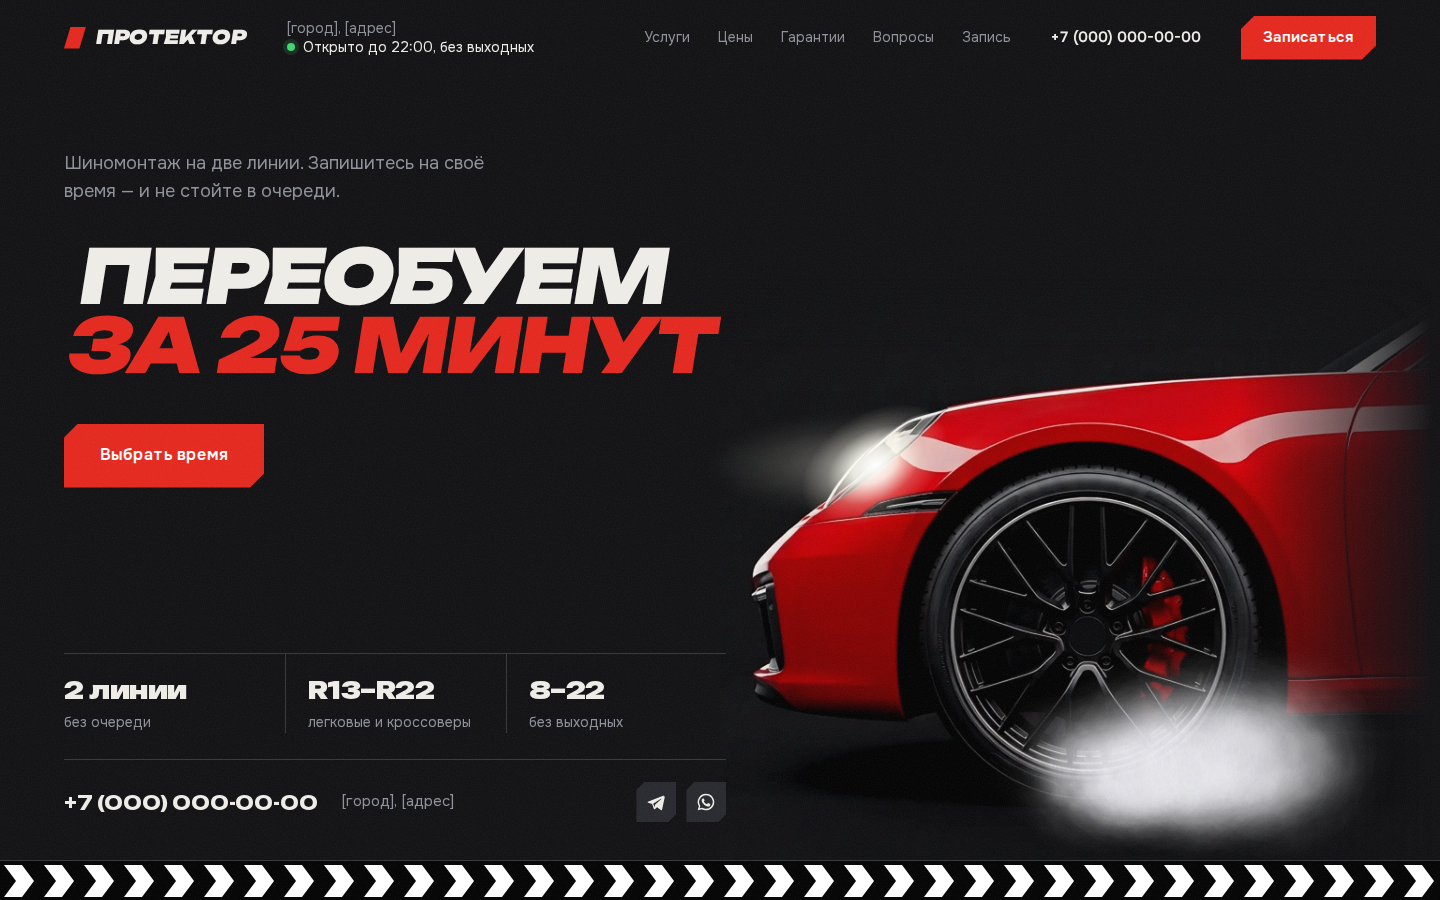
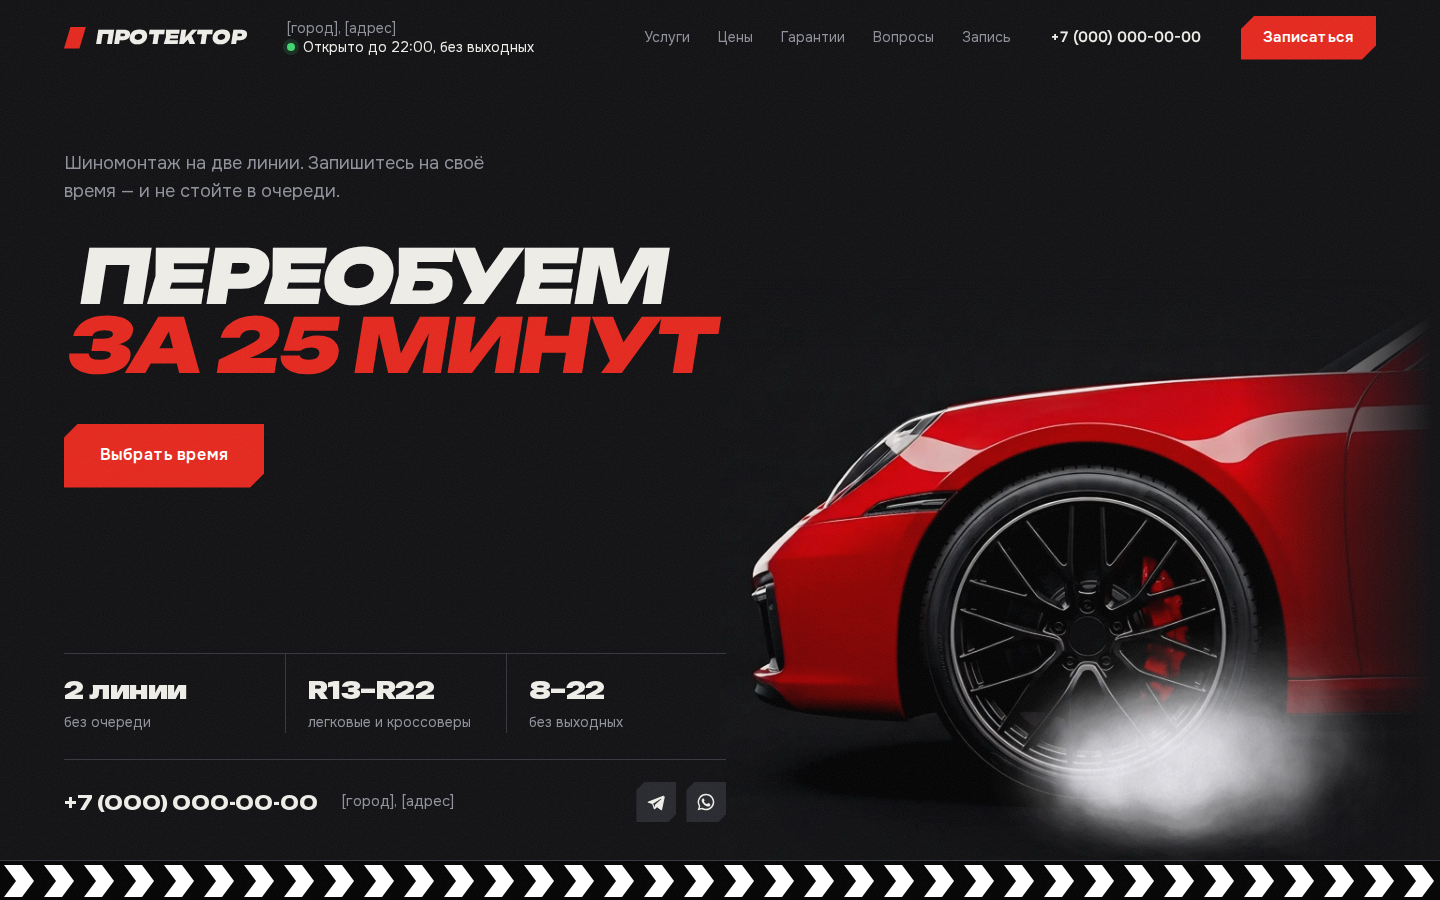
ПРОТЕКТОР, компьютер: без свечения фары, «25 минут» вертикальной лентой, просторнее плашки, карточка «Как доехать» справа и меньше
Claude-Session: https://claude.ai/code/session_01CSYCmsYEsfGfuLAZRJC8KX

diff --git a/protektor/styles.css b/protektor/styles.css
@@ -1350,6 +1350,7 @@ main { overflow-x: clip; }
 @media (min-width: 641px) {
   /* Первый экран: свет фары мягко гаснет и не доходит до текста; внизу — факты и контакты */
   .hero__photo { overflow: visible; }
+  .hero__lamp { display: none; }
   .hero__lamp::after {
     right: -14px; top: -62px; width: 240px; height: 124px;
     clip-path: none; filter: blur(10px);
@@ -1416,30 +1417,44 @@ main { overflow-x: clip; }
   @keyframes svc-in-t { from { opacity: 0; transform: skewX(var(--skew)) translate3d(0, 14px, 0); } to { transform: skewX(var(--skew)); } }
   .mcar__nav { display: none; }
 
-  /* 25 минут: лента поперёк экрана, колесо катится по ней, в конце красная полоса с таймером */
-  .visit__inner { display: grid; grid-template-columns: minmax(0, 1fr); grid-template-rows: auto auto 1fr; padding: 112px 0 56px; }
-  .visit__head { grid-column: 1; display: flex; align-items: flex-end; justify-content: space-between; gap: 64px; }
-  .visit__title { font-size: 60px; line-height: 0.98; white-space: nowrap; }
-  .visit__note { margin: 0 0 6px; max-width: 380px; line-height: 1.6; }
-  .visit__steps { grid-column: 1; grid-row: 2; align-self: start; display: grid; grid-template-columns: repeat(6, minmax(0, 1fr)); gap: 32px; margin-top: 64px; }
-  .visit__steps li { display: block; position: relative; padding: 88px 0 0; border-top: 0; }
-  .visit__steps li::before { position: absolute; left: 0; top: 0; font-size: 16px; content: "0" counter(step); }
-  .visit__steps li::after { content: ""; position: absolute; left: 0; top: 41px; width: 14px; height: 14px; background: var(--graphite); transform: rotate(45deg); transition: background-color 0.4s; }
-  .visit__steps li.is-on::after { background: var(--signal); }
-  .visit__steps b { display: block; font-size: 19px; line-height: 1.22; }
-  .visit__steps span { display: block; margin-top: 10px; font-size: 15px; line-height: 1.55; }
-  .visit__steps li:not(.is-on) span { opacity: 0.55; }
-  .visit__rail { grid-column: 1; grid-row: 2; align-self: start; position: relative; left: auto; right: auto; bottom: auto; margin-top: calc(64px + 46px); }
-  .visit__rail i { position: relative; }
-  .visit__wh { display: block; position: absolute; right: -22px; top: 50%; width: 44px; height: 44px; max-width: none; margin-top: -22px; filter: drop-shadow(0 4px 10px rgba(0, 0, 0, 0.8)); }
+  /* 25 минут: вертикальная лента, как на телефоне. Слева заголовок и красная плашка с таймером едут вместе с прокруткой */
+  .visit { height: auto; padding: 150px 0 160px; }
+  .visit__pin { position: static; display: block; height: auto; overflow: visible; }
+  .visit__inner { display: grid; grid-template-columns: minmax(0, 1fr) minmax(0, 1fr); grid-template-rows: auto 1fr; column-gap: 80px; height: auto; padding: 0; }
+  .visit__head, .visit__bar { grid-column: 1; }
+  .visit__head { grid-row: 1; }
+  .visit__title { font-size: 58px; line-height: 1; }
+  .visit__note { margin-top: 28px; max-width: 420px; font-size: 18px; line-height: 1.6; }
+  .visit__steps, .visit__rail { display: none; }
   .visit__bar {
-    grid-column: 1; grid-row: 3; align-self: end; display: flex; align-items: center; gap: 48px;
-    padding: 26px 40px; background: var(--signal); color: #fff;
-    clip-path: polygon(0 0, 100% 0, 100% calc(100% - 22px), calc(100% - 22px) 100%, 0 100%);
+    grid-row: 2; align-self: start; position: sticky; top: 140px; margin-top: 56px;
+    display: flex; flex-direction: column; align-items: flex-start; padding: 48px 52px 52px; color: #fff;
+    background: radial-gradient(70% 120% at 100% 0, #ff5a3d 0, transparent 60%), var(--signal);
+    clip-path: polygon(0 0, calc(100% - 28px) 0, 100% 28px, 100% 100%, 28px 100%, 0 calc(100% - 28px));
   }
-  .visit__bar .visit__timer { font-size: 104px; color: #fff; line-height: 0.85; }
-  .visit__bar-t { display: block; max-width: 420px; font-size: 18px; line-height: 1.5; }
-  .visit__bar-go { display: inline-flex; margin-left: auto; }
+  .visit__bar .visit__timer { align-self: flex-start; font-size: 128px; line-height: 0.85; color: #fff; }
+  .visit__bar-t { display: block; max-width: 380px; margin-top: 30px; font-size: 18px; line-height: 1.6; color: rgba(255, 255, 255, 0.94); }
+  .visit__bar-go { display: inline-flex; margin-top: 34px; }
+  .mtl { display: block; grid-column: 2; grid-row: 1 / span 2; margin: 0; padding-top: 10px; }
+  .mtl__start, .mtl__step { display: grid; grid-template-columns: 52px 1fr; column-gap: 52px; }
+  .mtl__start { align-items: center; margin-bottom: 30px; }
+  .mtl__start b { font-family: var(--display); font-weight: 700; font-size: 17px; color: var(--signal); font-variant-numeric: tabular-nums; text-align: right; }
+  .mtl__start span { font-size: 15px; color: var(--steel); }
+  .mtl__body { position: relative; }
+  .mtl__line { position: absolute; left: 78px; top: 10px; bottom: 6px; width: 4px; margin-left: -2px; background: var(--graphite); }
+  .mtl__line i { position: absolute; left: 0; top: 0; width: 100%; height: var(--fill, 0px); background: var(--signal); }
+  .mtl__wheel { position: absolute; left: 50%; top: var(--fill, 0px); width: 48px; height: 48px; max-width: none; margin: -24px 0 0 -24px; transform: rotate(var(--r, 0deg)); filter: drop-shadow(0 4px 12px rgba(0, 0, 0, 0.8)); }
+  .mtl__step { position: relative; padding-bottom: 48px; }
+  .mtl__step:last-child { padding-bottom: 0; }
+  .mtl__step::before { content: ""; position: absolute; left: 78px; top: 9px; z-index: 1; width: 15px; height: 15px; margin-left: -7.5px; background: var(--graphite); transform: rotate(45deg); transition: background-color 0.35s; }
+  .mtl__n { padding-top: 2px; font-family: var(--display); font-weight: 700; font-size: 17px; color: var(--line); text-align: right; transition: color 0.35s; }
+  .mtl__step b { display: block; font-family: var(--display); font-weight: 700; font-size: 26px; line-height: 1.2; letter-spacing: -0.015em; color: var(--steel); transition: color 0.35s; }
+  .mtl__step div span { display: block; max-width: 520px; margin-top: 10px; color: var(--steel); font-size: 17px; line-height: 1.6; opacity: 0.55; transition: opacity 0.35s; }
+  .mtl__step.is-on .mtl__n { color: var(--signal); }
+  .mtl__step.is-on::before { background: var(--signal); }
+  .mtl__step.is-on b { color: var(--chalk); }
+  .mtl__step.is-on div span { opacity: 1; }
+  .mtl__end { display: none; }
 
   /* Вопросы: список слева, ответ на выбранный — в красной плашке справа */
   .faq__inner { grid-template-columns: minmax(0, 1fr) 540px; column-gap: 48px; row-gap: 56px; }
@@ -1461,33 +1476,35 @@ main { overflow-x: clip; }
   .faq__item p { display: none; }
   .faq__card {
     grid-column: 2; grid-row: 2; position: sticky; top: 120px; display: flex; flex-direction: column; align-items: flex-start;
-    min-height: 460px; padding: 44px; color: #fff;
+    min-height: 460px; padding: 56px 60px 56px 56px; color: #fff;
     background: radial-gradient(70% 120% at 100% 0, #ff5a3d 0, transparent 60%), var(--signal);
     clip-path: polygon(0 0, calc(100% - 26px) 0, 100% 26px, 100% 100%, 26px 100%, 0 calc(100% - 26px));
   }
   .faq__card-n { font-family: var(--display); font-weight: 900; font-size: 18px; opacity: 0.8; }
-  .faq__card-q { max-width: 100%; margin-top: 24px; font-size: 36px; line-height: 1.04; overflow-wrap: anywhere; }
-  .faq__card-a { margin: 24px 0 36px; font-size: 18px; line-height: 1.6; color: rgba(255, 255, 255, 0.94); }
+  .faq__card-q { max-width: calc(100% - 24px); margin-top: 26px; font-size: 32px; line-height: 1.1; overflow-wrap: anywhere; }
+  .faq__card-a { margin: 26px 0 40px; font-size: 18px; line-height: 1.6; color: rgba(255, 255, 255, 0.94); }
   .faq__card .cut { margin-top: auto; }
   .faq__card.is-swap > * { animation: svc-in 0.5s var(--ease) both; }
   .faq__card.is-swap .faq__card-q { animation-name: svc-in-t; }
 
   /* Своё время: красная плашка с выбранным временем по центру, рядом дни и окна, ниже машина и контакты */
-  .book__form { grid-template-columns: 420px minmax(0, 1fr); gap: 16px; }
-  .book__col legend { float: left; width: 100%; margin-bottom: 22px; }
+  .book__form { grid-template-columns: 400px minmax(0, 1fr); gap: 20px; }
+  .book__col legend { float: left; width: 100%; margin-bottom: 28px; }
+  .book__col .book__label { margin: 30px 0 14px; }
+  .book__col .days, .book__col .slots, .book__col .chips { gap: 10px; }
   .book__col legend + * { clear: both; }
-  .book__col { padding: 34px 38px 36px; background: var(--rubber); clip-path: polygon(0 0, calc(100% - 18px) 0, 100% 18px, 100% 100%, 18px 100%, 0 calc(100% - 18px)); }
+  .book__col { padding: 44px 48px 48px; background: var(--rubber); clip-path: polygon(0 0, calc(100% - 18px) 0, 100% 18px, 100% 100%, 18px 100%, 0 calc(100% - 18px)); }
   .book__now {
     grid-column: 1; grid-row: 1; display: flex; flex-direction: column; align-items: center; justify-content: center; text-align: center;
-    padding: 40px 32px; color: #fff;
+    padding: 56px 48px; color: #fff;
     background: radial-gradient(70% 120% at 100% 0, #ff5a3d 0, transparent 60%), var(--signal);
     clip-path: polygon(0 0, calc(100% - 26px) 0, 100% 26px, 100% 100%, 26px 100%, 0 calc(100% - 26px));
   }
   .book__now-kick { display: flex; align-items: center; gap: 10px; font-size: 15px; }
   .book__now-kick .dot { background: #fff; box-shadow: 0 0 0 4px rgba(255, 255, 255, 0.25); }
-  .book__now-time { margin: 18px 0 20px; font-size: 118px; line-height: 0.9; font-variant-numeric: tabular-nums; transform-origin: center bottom; }
+  .book__now-time { margin: 24px 0 26px; font-size: 84px; line-height: 0.9; font-variant-numeric: tabular-nums; transform-origin: center bottom; }
   .book__now-day { font-size: 18px; font-weight: 600; }
-  .book__now-what { margin-top: 6px; color: rgba(255, 255, 255, 0.88); line-height: 1.5; }
+  .book__now-what { margin-top: 10px; color: rgba(255, 255, 255, 0.88); line-height: 1.5; }
   .book__col--when { grid-column: 2; grid-row: 1; }
   .slots { grid-template-columns: repeat(7, 1fr); }
   .book__col--what { grid-column: 1 / -1; display: grid; grid-template-columns: minmax(0, 1fr) minmax(0, 1.15fr); column-gap: 56px; align-items: start; }
@@ -1498,7 +1515,7 @@ main { overflow-x: clip; }
   .book__col--what > #what { grid-column: 2; grid-row: 3; }
   .book__col--what > .switch { grid-column: 2; grid-row: 4; margin-top: 22px; }
   .book__col--what > .field--address { grid-column: 2; grid-row: 5; }
-  .book__col--send { grid-column: 1 / -1; display: grid; grid-template-columns: 1fr 1fr minmax(0, 1.1fr) 300px; column-gap: 16px; align-items: end; }
+  .book__col--send { grid-column: 1 / -1; display: grid; grid-template-columns: 1fr 1fr minmax(0, 1.1fr) 300px; column-gap: 24px; align-items: end; }
   .book__col--send .field { margin-top: 0; }
   .book__col--send > .field, .book__col--send > .consent, .book__col--send > .book__send { grid-row: 2; }
   .book__col--send .consent { margin: 0 0 12px; }
@@ -1510,21 +1527,22 @@ main { overflow-x: clip; }
   .where { position: relative; min-height: 880px; padding: 110px 0; }
   .where__inner { display: block; }
   .where__map { position: absolute; inset: 0; min-height: 0; clip-path: none; }
-  .where__map-note { left: auto; right: var(--pad); bottom: 28px; }
+  .where__map-note { left: var(--pad); right: auto; bottom: 28px; }
   .where__text {
-    position: relative; z-index: 1; width: 580px; padding: 56px 50px 52px; color: #fff;
+    position: relative; z-index: 1; width: 470px; margin-left: auto; padding: 52px 48px 50px; color: #fff;
     background: radial-gradient(70% 120% at 100% 0, #ff5a3d 0, transparent 60%), var(--signal);
     clip-path: polygon(0 0, calc(100% - 32px) 0, 100% 32px, 100% 100%, 32px 100%, 0 calc(100% - 32px));
   }
-  .where__addr { margin-top: 30px; }
+  .where__title { font-size: 60px; line-height: 0.98; }
+  .where__addr { margin-top: 30px; font-size: 21px; line-height: 1.3; }
   .where__list { margin-top: 26px; }
-  .where__list li { padding: 18px 0; border-top-color: rgba(255, 255, 255, 0.28); line-height: 1.5; }
+  .where__list li { grid-template-columns: 104px 1fr; padding: 20px 0; border-top-color: rgba(255, 255, 255, 0.28); font-size: 15px; line-height: 1.55; }
   .where__list span { color: rgba(255, 255, 255, 0.88); }
   .where__btns { margin-top: 36px; }
   .where__btns .cut--red { flex: 1; background: var(--rubber); }
   .where__btns .cut--red:hover { background: #000; }
   .where__btns .cut--line { background: rgba(0, 0, 0, 0.25); color: #fff; }
-  .where__msgs { color: rgba(255, 255, 255, 0.88); margin-top: 26px; }
+  .where__msgs { color: rgba(255, 255, 255, 0.88); margin-top: 28px; }
   .where__msgs .msg { background: rgba(0, 0, 0, 0.25); color: #fff; }
   .where__msgs .msg:hover { background: var(--rubber); }
 }

diff --git a/protektor/script.js b/protektor/script.js
@@ -101,6 +101,7 @@
   var ticking = false;
   var phoneJobs = []; // обработчики прокрутки телефонных блоков (добавляются ниже)
   var deskJobs = [];  // то же для компьютера — для блоков, которые устроены одинаково
+  var wideVisit = matchMedia('(min-width: 1081px)'); // на широком экране «25 минут» — вертикальная лента, как на телефоне
   var onScroll = function () {
     ticking = false;
     var y = window.scrollY;
@@ -124,7 +125,8 @@
       setRot(bigWheel, (innerHeight - r.top) * 0.18);
     }
 
-    // Закреплённый блок визита: прогресс от 0 до 1 → таймер 00:00…25:00 и шаги по очереди
+    // Закреплённый блок визита (планшет): прогресс от 0 до 1 → таймер 00:00…25:00 и шаги по очереди
+    if (wideVisit.matches) return;
     var vr = visit.getBoundingClientRect();
     var total = visit.offsetHeight - innerHeight;
     var p = Math.min(1, Math.max(0, -vr.top / total));
@@ -718,17 +720,25 @@
     var wheel = document.querySelector('.mtl__wheel');
     var steps = Array.prototype.slice.call(document.querySelectorAll('.mtl__step'));
     if (!motion) { steps.forEach(function (s) { s.classList.add('is-on'); }); return; }
-    phoneJobs.push(function () {
+    var job = function (desk) {
       var lr = line.getBoundingClientRect();
       if (lr.bottom < -200 || lr.top > innerHeight + 200) return null;
       var fill = clamp(innerHeight * 0.62 - lr.top, 0, lr.height);
       var tops = steps.map(function (s) { return s.getBoundingClientRect().top + 14 - lr.top; });
+      var d = wheel.offsetWidth || 34;
       return function () {
         line.style.setProperty('--fill', fill.toFixed(1) + 'px');
-        wheel.style.setProperty('--r', (fill / (Math.PI * 34) * 360).toFixed(1) + 'deg');
+        wheel.style.setProperty('--r', (fill / (Math.PI * d) * 360).toFixed(1) + 'deg');
         steps.forEach(function (s, i) { s.classList.toggle('is-on', tops[i] <= fill + 1); });
+        // На компьютере рядом с лентой тикает таймер: 00:00 в начале, 25:00 в конце
+        if (desk) {
+          var secs = Math.round(fill / (lr.height || 1) * 25 * 60);
+          timer.textContent = pad(Math.floor(secs / 60)) + ':' + pad(secs % 60);
+        }
       };
-    });
+    };
+    phoneJobs.push(function () { return job(false); });
+    deskJobs.push(function () { return wideVisit.matches ? job(true) : null; });
   })();
 
   /* ---------- Колесо на ленте: крутится на месте от прокрутки и от свайпа плашек ---------- */
